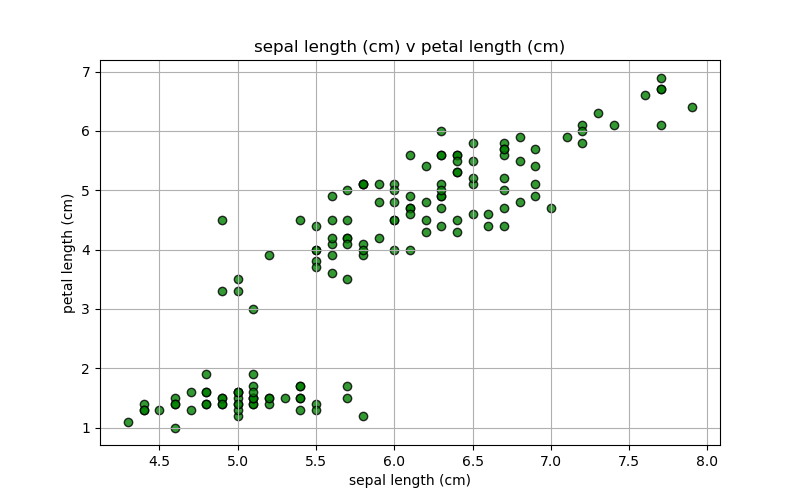
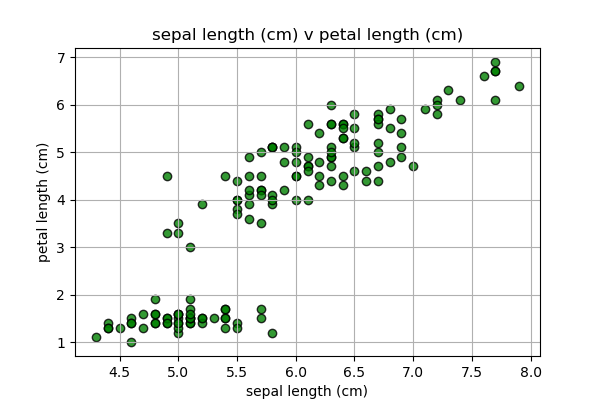
work

diff --git a/analysis.py b/analysis.py
@@ -5,6 +5,7 @@
 # Import All Relevant Libraries
 import pandas as pd 
 import numpy as np 
+import seaborn as sns
 import matplotlib.pyplot as plt
 from sklearn.datasets import load_iris
 
@@ -65,51 +66,99 @@ print("Summary to summary.txt")
 
 # Load the Dataset
 iris = load_iris()
+# Extract the feature data
 data = iris.data 
+# Get lost of feature names
 feature_names = iris.feature_names
 
-
-# Create a histogram for each feature and save to file.png
-# Create and save a histogram for each feature
+# Loop each feature in the dataset to create histogram
 for i in range(len(feature_names)):
-
-# Set figure size for a more clear Histogram
-# Set bins to 10 for and colours to green with edge colour black for a clean Histogram
-# Set title for 'Histogram of feature name' 
-# Set x axis to include feature name
-# Set y axis to show Frequency 
+    # Set figure size for a more clear histogram    
     plt.figure(figsize=(8, 5))
+    # Set bins to 10 for and colours to green with edge colour black for a clean Histogram
     plt.hist(data[:, i], bins=10, color='green', edgecolor='black')
+    # Set title for 'Histogram of feature name' 
     plt.title(f'Histogram of {feature_names[i]}')
+    # Set x axis to include feature name
     plt.xlabel(feature_names[i])
+    # Set y axis to show Frequency 
     plt.ylabel('Frequency')
 
-# Use feature_names to get name of current feature
-# Use replace to change all spaces into underscores, remove any opening and closing brackets
+# Create safe of feature name for use in a filename
+# Use replace to change all spaces into underscores and remove gaps
     safe_name = feature_names[i].replace(" ", "_").replace("(", "").replace(")", "") 
-# Use F-string to insert variable into saved file eg:sepal length    
+    # Save the plot as png file    
     plt.savefig(f'{safe_name}_histogram.png') 
+    # Print confirmation of saved file    
     print(safe_name + ' to '+ safe_name + '_histogram.png')
+    # Clear current plot to prepare for next one
     plt.clf()
     
 # 3. Output a scatter plot of each pair of variables. 
 
-# Load Iris
+# Label each column using feature names
 df = pd.DataFrame(iris.data, columns=iris.feature_names)
+# Store the list of feature names in a seperate variable 
 features = iris.feature_names
 
-
+# Loop all feature pairs without repetition
 for i in range(len(features)):
         for j in range(i + 1, len(features)):
+
+                # Set x and y axis labels using feature names
                 x_label = features[i]
                 y_label = features[j]
 
+                # Create a new figure with specified width and height
+                plt.figure(figsize=(6,4))
+
+                # Create scatter plot with x and y axes
+                # Colour set to green, edges black, alpha for transparency
                 plt.scatter(df[x_label], df[y_label], color='green', edgecolor='black', alpha=0.8)
+                # Label the x-axis
                 plt.xlabel(x_label)
+                # Label the y-axis
                 plt.ylabel(y_label)
+                # Set Title
                 plt.title(f'{x_label} v {y_label}')
+                # Plot Grid
                 plt.grid(True)
-        
+
+                # Clean the feature names so no overlap between files
+                safe_x = x_label.replace(" ", "_").replace("(", "").replace(")","")
+                safe_y = y_label.replace(" ", "_").replace("(", "").replace(")","")
+                # Save the scattter plot to png file 
                 plt.savefig(f'{x_label}_vs_{y_label}.png')
+                # Print confirmation message
+                print(f"{safe_x} vs {safe_y}")
+                # Clear current figure for no overlap
                 plt.clf()
+
+# 4. Perform any other analysis you think is appropriate
+# For the last task I decided to perform a pairplot of the data set
+# The pairplot creates a matrix of scatter plots showing every possible pair combination of features.
+# I have color coded each point based on the flower class.
+# This helps identify correlations and class separations visually.
+# The diagonal of the pairplot where the x and y features are the same contains histograms.
+# These histograms show the distribution of each feature.
+
+# Check that a target column (e.g. 'species' or 'class') exists
+df_csv = pd.read_csv('iris.csv')
+
+# Load the target labels (0, 1, 2) and their names (setosa, versicolor, virginica)
+iris = load_iris()
+target_labels = iris.target
+target_names = iris.target_names
+
+# Map numerical values to species names
+species = [target_names[i] for i in target_labels]
+
+# If the length of data matches add species column
+if len(df_csv) == len(species):
+    df_csv['species'] = species
+
+# Create seaborn pairplot
+sns.pairplot(df_csv, hue='species', diag_kind='hist')
+plt.savefig('seaborn_pairplot.png')
+print("Seaborn pairplot saved as seaborn_pairplot.png")
 
